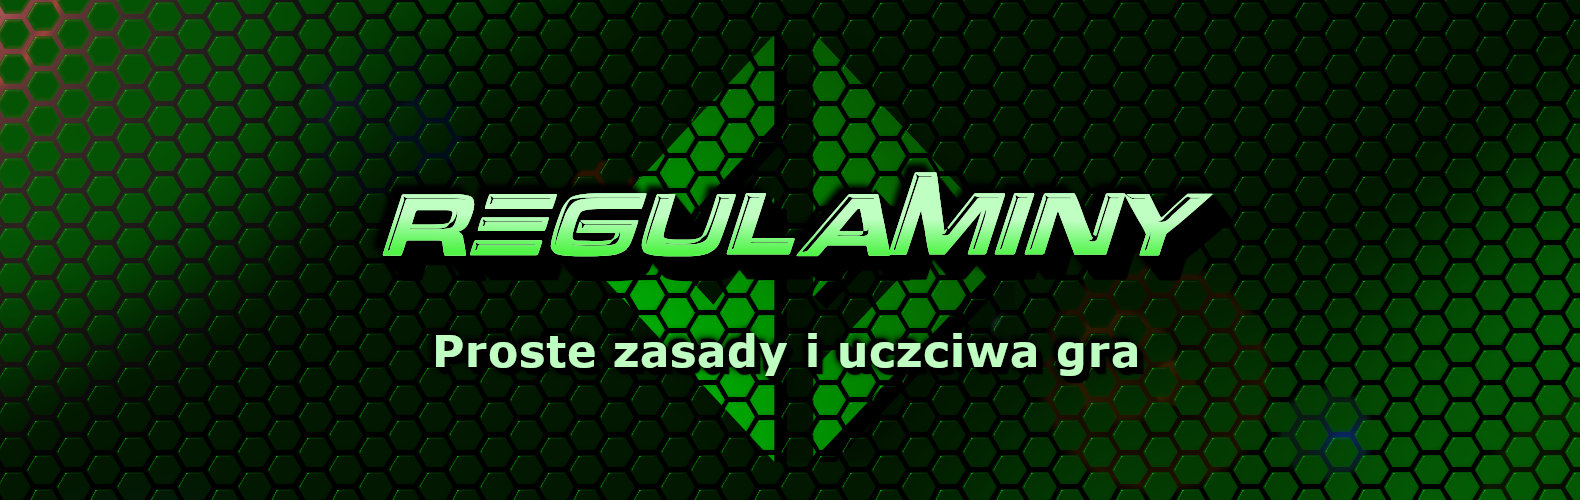
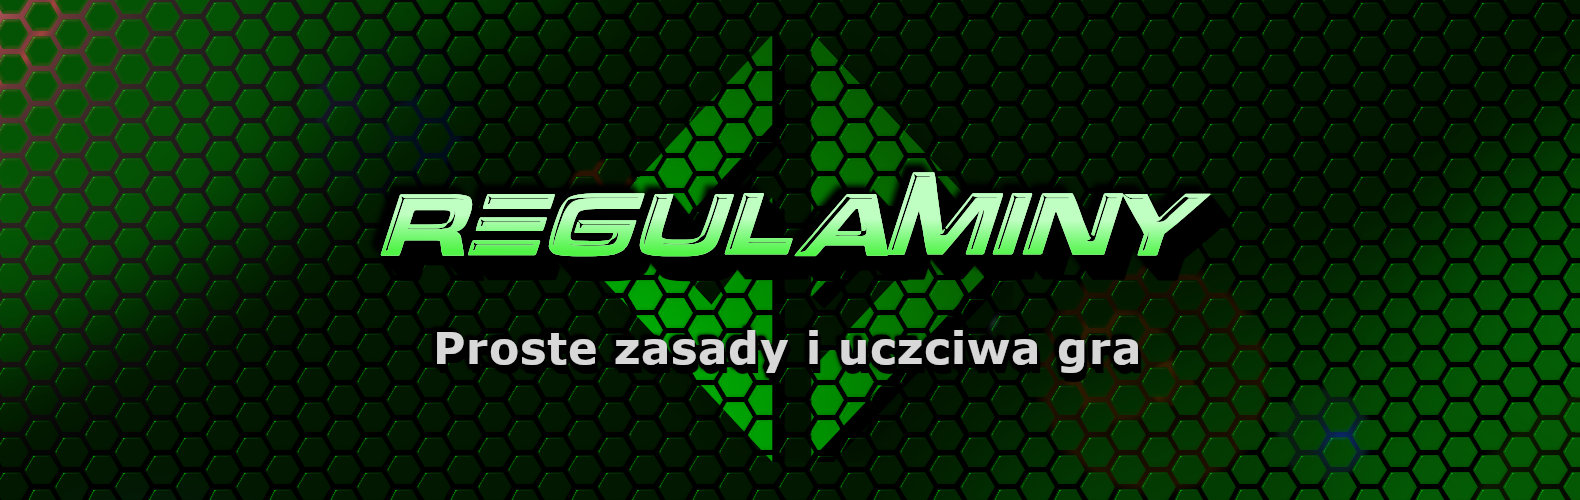
nowe banery + skrócenie nazwy loterie i konkursy do samych konkursów

diff --git a/zapisy/index.html b/zapisy/index.html
@@ -1,90 +1,4 @@
-<!DOCTYPE html>
-<html class="h-full" lang="pl">
-	<head>
-		<meta charset="UTF-8" />
-		<meta name="viewport" content="width=device-width" />
-		<meta http-equiv="X-UA-Compatible" content="IE=edge" />
-		<title>GrandZoneGaming</title>
-		<link href="/assets/css/fontawesome.css" rel="stylesheet" />
-		<link href="/assets/css/main.css" rel="stylesheet" />
-		<meta property="og:image" content="/assets/img/grandzonegaming.png">
-		<meta property="og:description" content="Jesteśmy jedną z największych Polskich organizacji zrzeszających graczy mobilnych. Nasza działalność często krąży wokół gier Supercell'a (Clash Royale, Clash of Clans, Brawls Stars), ale jesteśmy również otwarci na inne gry.">
-		<meta property="og:title" content="GrandZoneGaming">
-		<link rel="shortcut icon" href="/assets/favicon/favicon.ico">
-		<link rel="icon" sizes="16x16 32x32 64x64" href="/assets/favicon/favicon.ico">
-		<link rel="icon" type="image/png" sizes="196x196" href="/assets/favicon/favicon-192.png">
-		<link rel="icon" type="image/png" sizes="160x160" href="/assets/favicon/favicon-160.png">
-		<link rel="icon" type="image/png" sizes="96x96" href="/assets/favicon/favicon-96.png">
-		<link rel="icon" type="image/png" sizes="64x64" href="/assets/favicon/favicon-64.png">
-		<link rel="icon" type="image/png" sizes="32x32" href="/assets/favicon/favicon-32.png">
-		<link rel="icon" type="image/png" sizes="16x16" href="/assets/favicon/favicon-16.png">
-		<link rel="apple-touch-icon" href="/assets/favicon/favicon-57.png">
-		<link rel="apple-touch-icon" sizes="114x114" href="/assets/favicon/favicon-114.png">
-		<link rel="apple-touch-icon" sizes="72x72" href="/assets/favicon/favicon-72.png">
-		<link rel="apple-touch-icon" sizes="144x144" href="/assets/favicon/favicon-144.png">
-		<link rel="apple-touch-icon" sizes="60x60" href="/assets/faviconfavicon-60.png">
-		<link rel="apple-touch-icon" sizes="120x120" href="/assets/favicon/favicon-120.png">
-		<link rel="apple-touch-icon" sizes="76x76" href="/assets/favicon/favicon-76.png">
-		<link rel="apple-touch-icon" sizes="152x152" href="/assets/favicon/favicon-152.png">
-		<link rel="apple-touch-icon" sizes="180x180" href="/assets/favicon/favicon-180.png">
-		<meta name="msapplication-TileColor" content="#FFFFFF">
-		<meta name="msapplication-TileImage" content="/assets/favicon/favicon-144.png">
-		<meta name="msapplication-config" content="/assets/favicon/browserconfig.xml">
-		<!-- Begin Jekyll SEO tag v2.6.1 -->
-<meta name="generator" content="Jekyll v4.0.0" />
-<meta property="og:locale" content="en_US" />
-<link rel="canonical" href="https://grandzonegaming.com/zapisy/" />
-<meta property="og:url" content="https://grandzonegaming.com/zapisy/" />
-<script type="application/ld+json">
-{"@type":"WebPage","url":"https://grandzonegaming.com/zapisy/","@context":"https://schema.org"}</script>
-<!-- End Jekyll SEO tag -->
-
-	</head>
-
-	<body class="bg-gray-900 text-gray-100 flex flex-col min-h-full">
-		<nav class="bg-gray-800 text-gray-400 sticky top-0">
-	<div class="max-w-6xl px-6 py-2 mx-auto flex flex-col lg:flex-row lg:justify-between lg:items-center">
-		<div class="flex justify-between items-center">
-			<a class="flex items-center lg:mb-0" href="/">
-				<img class="w-12 mr-2" src="/assets/img/grandzonegaming.png" />
-				<div class="font-bold text-xl leading-none">
-					GrandZoneGaming
-				</div>
-			</a>
-			<div id="hamburger" class="fas fa-bars fa-lg"></div>
-		</div>
-
-		<div id="nav-right" class="nav-hidden flex flex-col lg:flex-row -mx-2 mt-2 lg:mt-0">
-			<a class="mx-2 my-1 lg:my-0" href="/aktualnosci/">
-				<span class="fas fa-newspaper text-xl mr-1"></span>
-				Aktualności
-			</a>
-			<a class="mx-2 my-1 lg:my-0" href="/kontakt/">
-				<span class="fas fa-address-card text-xl mr-1"></span>
-				Kontakt
-			</a>
-			<a class="mx-2 my-1 lg:my-0" href="/zapisy/">
-				<span class="fas fa-file-signature text-xl mr-1"></span>
-				Zapisy
-			</a>
-			<a class="mx-2 my-1 lg:my-0" href="/konkursy/">
-				<span class="fas fa-trophy text-xl mr-1"></span>
-				Loterie i konkursy
-			</a>
-			<a class="mx-2 my-1 lg:my-0" href="/regulaminy/">
-				<span class="fas fa-scroll text-xl mr-1"></span>
-				Regulaminy
-			</a>
-			<a class="mx-2 my-1 lg:my-0" href="/sklep/">
-				<span class="fas fa-shopping-cart text-xl mr-1"></span>
-				Sklep
-			</a>
-		</div>
-	</div>
-</nav>
-
-		<div class="w-full max-w-6xl px-6 py-8 mx-auto">
-	<form action="https://api.staticforms.xyz/submit" method="POST" onsubmit="return submitForm();">
+<form action="https://api.staticforms.xyz/submit" method="POST" onsubmit="return submitForm();">
 	<div class="flex flex-col items-center w-40 mx-auto">
 		<input type="hidden" name="accessKey" value="f0bac7e1-f4c2-47b2-90c4-aaee442475cc">
 		<input type="hidden" name="subject" value="Zapisy" />
@@ -112,32 +26,3 @@
 		<input class="btn btn-blue mt-4 w-full" type="submit" value="Wyślij">
 	</div>
 </form>
-
-</div>
-
-		<!-- Customerly Integration Code -->
-<script>
-    window.customerlySettings = {
-        app_id: "102de45c"
-    };
-    !function(){function e(){var e=t.createElement("script");
-    e.type="text/javascript",e.async=!0,
-    e.src="https://widget.customerly.io/widget/102de45c";
-    var r=t.getElementsByTagName("script")[0];r.parentNode.insertBefore(e,r)}
-    var r=window,t=document,n=function(){n.c(arguments)};
-    r.customerly_queue=[],n.c=function(e){r.customerly_queue.push(e)},
-    r.customerly=n,r.attachEvent?r.attachEvent("onload",e):r.addEventListener("load",e,!1)}();
-</script>
-
-<footer class="bg-gray-800 text-gray-300 mt-auto sticky bottom-0">
-	<div class="max-w-6xl flex flex-col sm:flex-row justify-between items-center mx-auto px-5 py-4">
-		<div>2019-2020 <span class="far fa-copyright"></span> GrandZoneGaming</div>
-		<!-- <div><span class="fas fa-user-secret"></span> Polityka Prywatności</div> -->
-	</div>
-</footer>
-
-		<script src="/assets/js/main.js"></script>
-		<script async defer src="https://cdn.simpleanalytics.io/hello.js"></script>
-		<noscript><img src="https://api.simpleanalytics.io/hello.gif" alt=""></noscript>
-	</body>
-</html>

diff --git a/sklep/index.html b/sklep/index.html
@@ -33,12 +33,10 @@
 		<!-- Begin Jekyll SEO tag v2.6.1 -->
 <meta name="generator" content="Jekyll v4.0.0" />
 <meta property="og:locale" content="en_US" />
-<meta name="description" content="Kliknij interesującą Cię ofertę i poznaj więcej szczegółów!" />
-<meta property="og:description" content="Kliknij interesującą Cię ofertę i poznaj więcej szczegółów!" />
 <link rel="canonical" href="https://grandzonegaming.com/sklep/" />
 <meta property="og:url" content="https://grandzonegaming.com/sklep/" />
 <script type="application/ld+json">
-{"@type":"WebPage","description":"Kliknij interesującą Cię ofertę i poznaj więcej szczegółów!","url":"https://grandzonegaming.com/sklep/","@context":"https://schema.org"}</script>
+{"@type":"WebPage","url":"https://grandzonegaming.com/sklep/","@context":"https://schema.org"}</script>
 <!-- End Jekyll SEO tag -->
 
 	</head>
@@ -71,7 +69,7 @@
 			</a>
 			<a class="mx-2 my-1 lg:my-0" href="/konkursy/">
 				<span class="fas fa-trophy text-xl mr-1"></span>
-				Loterie i konkursy
+				Konkursy
 			</a>
 			<a class="mx-2 my-1 lg:my-0" href="/regulaminy/">
 				<span class="fas fa-scroll text-xl mr-1"></span>
@@ -85,11 +83,13 @@
 	</div>
 </nav>
 
-		<div class="bg-gray-700 py-16">
+		<div class="bg-gray-700 ">
 	<div class="flex">
 		<div class="mx-auto text-center">
-			<h2 class="text-4xl text-gray-200">Sklep</h2>
-			<p class="text-gray-400 text-lg px-5">Kliknij interesującą Cię ofertę i poznaj więcej szczegółów!</p>
+			<picture>
+				<source media="(min-width: 1024px)" srcset=" /assets/img/layout/sklep-small.jpg ">
+				<img src=" /assets/img/layout/sklep-small.jpg " alt="Baner" class="h-32 lg:h-48 w-full object-cover object-center">
+			</picture>
 		</div>
 	</div>
 </div>

diff --git a/aktualnosci/index.html b/aktualnosci/index.html
@@ -69,7 +69,7 @@
 			</a>
 			<a class="mx-2 my-1 lg:my-0" href="/konkursy/">
 				<span class="fas fa-trophy text-xl mr-1"></span>
-				Loterie i konkursy
+				Konkursy
 			</a>
 			<a class="mx-2 my-1 lg:my-0" href="/regulaminy/">
 				<span class="fas fa-scroll text-xl mr-1"></span>
@@ -96,14 +96,14 @@
 
 <div class="w-full max-w-6xl px-6 py-8 mx-auto">
 	<div class="flex flex-wrap -mx-2">
+	<a href="https://grandzonegaming.com/regulaminy/liga-champions-of-poland" class="md:w-1/2 p-2">
+		<img class="rounded shadow" src="/assets/img/aktualnosci/champions4.jpg" />
+	</a>
 	<a href="https://grandzonegaming.com/regulaminy/long-koth-cup.html" class="md:w-1/2 p-2">
 		<img class="rounded shadow" src="/assets/img/aktualnosci/LKC2.jpg" />
 	</a>
 	<a href="https://grandzonegaming.com/regulaminy/nwo-grand-tour" class="md:w-1/2 p-2">
 		<img class="rounded shadow" src="/assets/img/aktualnosci/nwo.jpg" />
-	</a>
-	<a href="https://grandzonegaming.com/regulaminy/liga-champions-of-poland" class="md:w-1/2 p-2">
-		<img class="rounded shadow" src="/assets/img/aktualnosci/champions3.jpg" />
 	</a>
 	<div class="md:w-1/2 p-2">
 		<img class="rounded shadow" src="/assets/img/aktualnosci/gzgtv.jpg" />

diff --git a/konkursy/index.html b/konkursy/index.html
@@ -71,7 +71,7 @@
 			</a>
 			<a class="mx-2 my-1 lg:my-0" href="/konkursy/">
 				<span class="fas fa-trophy text-xl mr-1"></span>
-				Loterie i konkursy
+				Konkursy
 			</a>
 			<a class="mx-2 my-1 lg:my-0" href="/regulaminy/">
 				<span class="fas fa-scroll text-xl mr-1"></span>
@@ -85,11 +85,13 @@
 	</div>
 </nav>
 
-		<div class="bg-gray-700 py-16">
+		<div class="bg-gray-700 ">
 	<div class="flex">
 		<div class="mx-auto text-center">
-			<h2 class="text-4xl text-gray-200">Loterie i konkursy</h2>
-			<p class="text-gray-400 text-lg px-5">Tu najszybciej dowiesz się o najnowszych loteriach i konkursach organizowanych przez GZG!</p>
+			<picture>
+				<source media="(min-width: 1024px)" srcset=" /assets/img/layout/konkutsy-small.jpg ">
+				<img src=" /assets/img/layout/konkutsy-small.jpg " alt="Baner" class="h-32 lg:h-48 w-full object-cover object-center">
+			</picture>
 		</div>
 	</div>
 </div>

diff --git a/404.html b/404.html
@@ -69,7 +69,7 @@
 			</a>
 			<a class="mx-2 my-1 lg:my-0" href="/konkursy/">
 				<span class="fas fa-trophy text-xl mr-1"></span>
-				Loterie i konkursy
+				Konkursy
 			</a>
 			<a class="mx-2 my-1 lg:my-0" href="/regulaminy/">
 				<span class="fas fa-scroll text-xl mr-1"></span>

diff --git a/anulowane/index.html b/anulowane/index.html
@@ -69,7 +69,7 @@
 			</a>
 			<a class="mx-2 my-1 lg:my-0" href="/konkursy/">
 				<span class="fas fa-trophy text-xl mr-1"></span>
-				Loterie i konkursy
+				Konkursy
 			</a>
 			<a class="mx-2 my-1 lg:my-0" href="/regulaminy/">
 				<span class="fas fa-scroll text-xl mr-1"></span>

diff --git a/forum/index.html b/forum/index.html
@@ -69,7 +69,7 @@
 			</a>
 			<a class="mx-2 my-1 lg:my-0" href="/konkursy/">
 				<span class="fas fa-trophy text-xl mr-1"></span>
-				Loterie i konkursy
+				Konkursy
 			</a>
 			<a class="mx-2 my-1 lg:my-0" href="/regulaminy/">
 				<span class="fas fa-scroll text-xl mr-1"></span>

diff --git a/index.html b/index.html
@@ -69,7 +69,7 @@
 			</a>
 			<a class="mx-2 my-1 lg:my-0" href="/konkursy/">
 				<span class="fas fa-trophy text-xl mr-1"></span>
-				Loterie i konkursy
+				Konkursy
 			</a>
 			<a class="mx-2 my-1 lg:my-0" href="/regulaminy/">
 				<span class="fas fa-scroll text-xl mr-1"></span>

diff --git a/komentarze/index.html b/komentarze/index.html
@@ -71,7 +71,7 @@
 			</a>
 			<a class="mx-2 my-1 lg:my-0" href="/konkursy/">
 				<span class="fas fa-trophy text-xl mr-1"></span>
-				Loterie i konkursy
+				Konkursy
 			</a>
 			<a class="mx-2 my-1 lg:my-0" href="/regulaminy/">
 				<span class="fas fa-scroll text-xl mr-1"></span>

diff --git a/konkursy/like-gzg.html b/konkursy/like-gzg.html
@@ -71,7 +71,7 @@
 			</a>
 			<a class="mx-2 my-1 lg:my-0" href="/konkursy/">
 				<span class="fas fa-trophy text-xl mr-1"></span>
-				Loterie i konkursy
+				Konkursy
 			</a>
 			<a class="mx-2 my-1 lg:my-0" href="/regulaminy/">
 				<span class="fas fa-scroll text-xl mr-1"></span>

diff --git a/konkursy/loteria-nwo.html b/konkursy/loteria-nwo.html
@@ -71,7 +71,7 @@
 			</a>
 			<a class="mx-2 my-1 lg:my-0" href="/konkursy/">
 				<span class="fas fa-trophy text-xl mr-1"></span>
-				Loterie i konkursy
+				Konkursy
 			</a>
 			<a class="mx-2 my-1 lg:my-0" href="/regulaminy/">
 				<span class="fas fa-scroll text-xl mr-1"></span>

diff --git a/kontakt/index.html b/kontakt/index.html
@@ -69,7 +69,7 @@
 			</a>
 			<a class="mx-2 my-1 lg:my-0" href="/konkursy/">
 				<span class="fas fa-trophy text-xl mr-1"></span>
-				Loterie i konkursy
+				Konkursy
 			</a>
 			<a class="mx-2 my-1 lg:my-0" href="/regulaminy/">
 				<span class="fas fa-scroll text-xl mr-1"></span>
